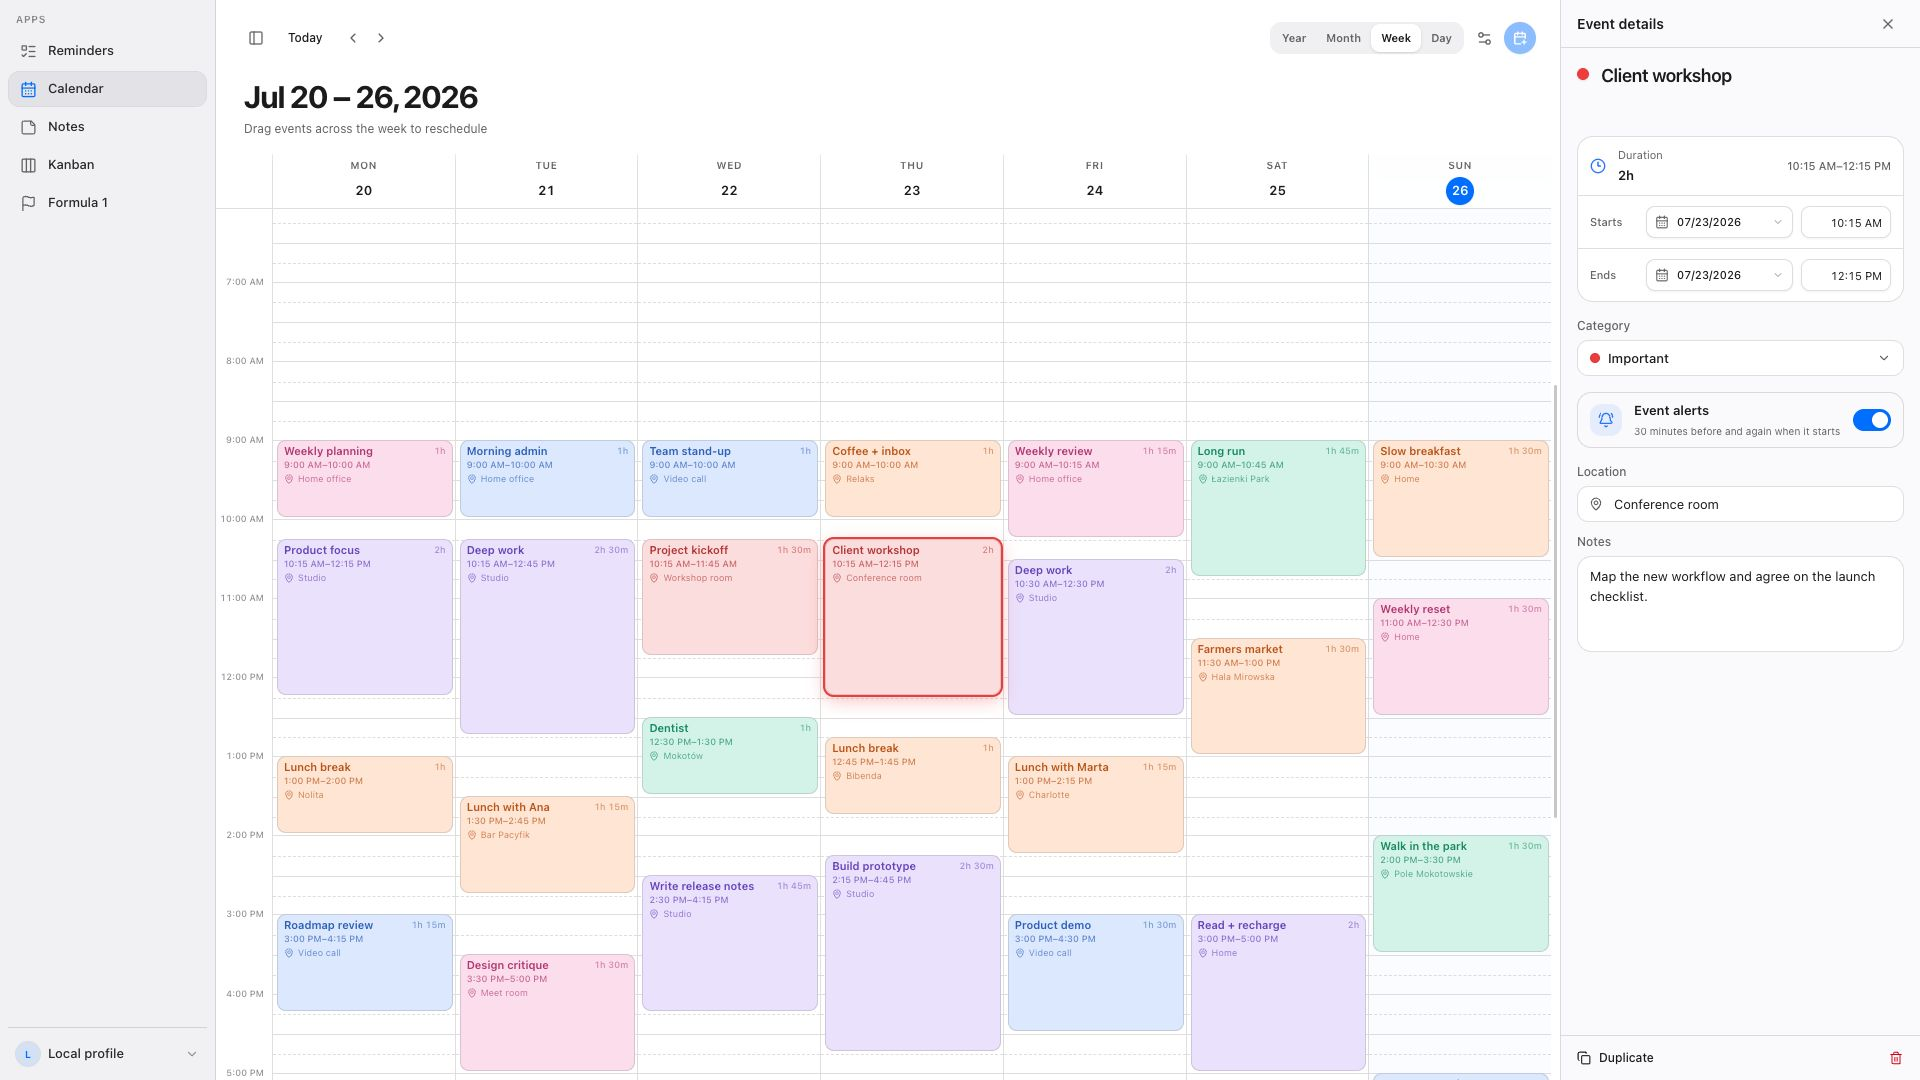
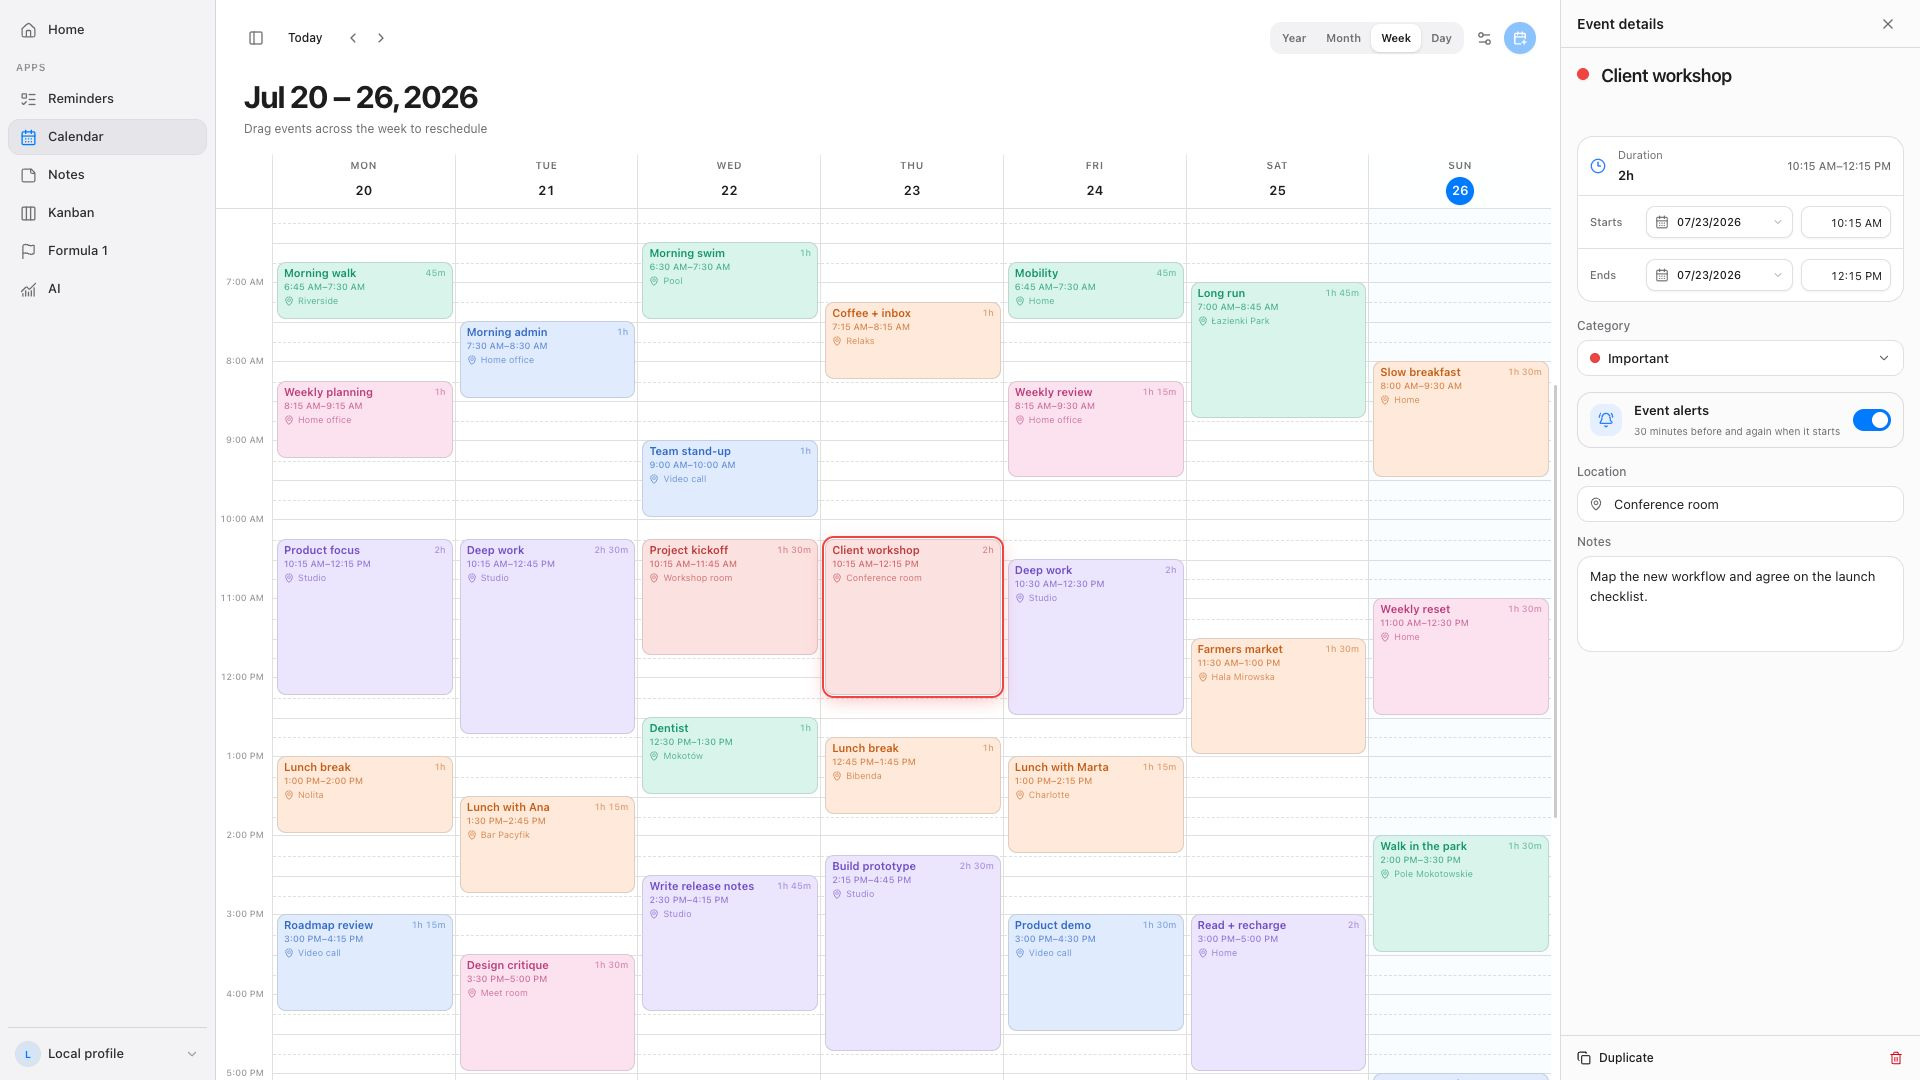
docs: add Windows guides and refresh screenshots

Changed region(s): [[0.125, 0.2139, 0.8125, 0.55], [0.0, 0.0, 0.0625, 0.2444], [0.4375, 0.6417, 0.5, 0.6722]]

diff --git a/README.md b/README.md
@@ -6,13 +6,15 @@
 
 <p align="center">
   A calm home for the everyday parts of life.<br>
-  Reminders, calendar, notes, projects, and Formula 1—together on the web and macOS.
+  Reminders, calendar, notes, projects, Formula 1, and AI usage—together on macOS, Windows, and the web.
 </p>
 
 <p align="center">
   <a href="https://www.lifever.app">Website</a>
   ·
   <a href="https://github.com/badosz0/lifever/releases/latest">Download for macOS</a>
+  ·
+  <a href="https://github.com/badosz0/lifever/releases/latest/download/Lifever-Windows-x64-setup.exe">Download for Windows</a>
   ·
   <a href="#homebrew">Install with Homebrew</a>
   ·
@@ -21,13 +23,20 @@
 
 ![Lifever week calendar](docs/screenshots/calendar-week.jpg)
 
-## One place, five focused apps
+## One place, six focused apps
 
 - **Reminders** — natural scheduling, categories, notes, priority, sounds, and Undo.
 - **Calendar** — day, week, month, and year views with drag creation, resizing, colors, and alerts.
 - **Notes** — multiple categories, fast search, pinning, and polished Markdown rendering.
 - **Kanban** — multiple projects, custom properties, labels, limits, search, and fluid drag and drop.
 - **Formula 1** — race weekends, championship data, local session times, and live countdowns.
+- **AI** — Codex limits, token history, model breakdowns, and daily usage at a glance.
+
+AI and Formula 1 are opt-in. Every other app is ready on first launch.
+
+| Home | AI usage |
+| --- | --- |
+| ![Lifever Home overview](docs/screenshots/home-overview.jpg) | ![Lifever AI usage dashboard](docs/screenshots/ai-usage.jpg) |
 
 | Reminders | Kanban |
 | --- | --- |
@@ -37,11 +46,12 @@
 | --- | --- |
 | ![Demo Markdown notes](docs/screenshots/notes-markdown.jpg) | ![Demo Formula 1 weekend](docs/screenshots/formula-1.jpg) |
 
-Lifever starts with a local demo profile, so the interface is useful before any
-account or server exists. Discord sign-in enables authenticated sync across
-devices.
+Lifever starts with a local demo profile. Discord sign-in enables authenticated
+sync across devices.
 
-## Homebrew
+## Install
+
+### macOS with Homebrew
 
 ```bash
 brew tap badosz0/lifever https://github.com/badosz0/lifever
@@ -55,6 +65,12 @@ Update later with:
 brew update
 brew upgrade lifever
 ```
+
+### Windows
+
+Download the latest
+[Windows 10/11 x64 installer](https://github.com/badosz0/lifever/releases/latest/download/Lifever-Windows-x64-setup.exe).
+The matching SHA-256 checksum is attached to every release.
 
 ## Run the demo
 
@@ -71,8 +87,8 @@ seeded with demo reminders, events, notes, and projects.
 
 ## Built with
 
-React 19 · TypeScript · Vite · Tailwind CSS · Tauri 2 · Hono · Better Auth ·
-Prisma · PostgreSQL · Cloudflare Workers and D1
+React 19 · TypeScript · Vite · Tailwind CSS · Tauri 2 · Rust · Hono · Better
+Auth · Prisma · PostgreSQL · Cloudflare Workers and D1
 
 ## Documentation
 

diff --git a/BUILDING.md b/BUILDING.md
@@ -1,6 +1,6 @@
 # Building Lifever
 
-This guide covers local development, production builds, the macOS app, and
+This guide covers local development, production builds, desktop apps, and
 releases. For deployment configuration, see [SELF_HOSTING.md](SELF_HOSTING.md).
 
 ## Requirements
@@ -8,7 +8,10 @@ releases. For deployment configuration, see [SELF_HOSTING.md](SELF_HOSTING.md).
 - Node `22.14.0` from [.nvmrc](.nvmrc)
 - pnpm `11.17.0` through Corepack
 - Docker or a PostgreSQL 17-compatible server for authenticated development
-- Rust `1.88.0` and Xcode Command Line Tools for the macOS app
+- Rust `1.88.0`
+- macOS: Xcode Command Line Tools
+- Windows: Windows 10/11, WebView2, and Microsoft C++ Build Tools with the
+  **Desktop development with C++** workload
 
 ## Install
 
@@ -66,7 +69,7 @@ Use a production-quality Better Auth secret:
 openssl rand -base64 32
 ```
 
-## macOS development
+## Desktop development
 
 Save the public API origin used by desktop builds:
 
@@ -82,6 +85,8 @@ pnpm desktop:dev
 ```
 
 Use `pnpm dev:worker` instead when developing against the Cloudflare runtime.
+
+### macOS
 
 Build and install the native app:
 
@@ -103,6 +108,24 @@ pnpm desktop:build
 
 Desktop commands accept `--api-url https://api.example.com`. Install commands
 also accept `--install-dir ~/Applications`.
+
+### Windows
+
+Run the app in development:
+
+```powershell
+pnpm desktop:dev
+```
+
+Build the same per-user NSIS installer published on GitHub:
+
+```powershell
+$env:VITE_API_URL="https://YOUR_API_ORIGIN"
+pnpm --filter @lifever/desktop tauri build --bundles nsis --ci
+```
+
+The setup executable is written under
+`apps/desktop/src-tauri/target/release/bundle/nsis`.
 
 ## Validation
 
@@ -173,7 +196,10 @@ pnpm release
 
 The release command checks the workspace, builds and verifies an Intel and
 Apple-silicon DMG, applies D1 migrations, deploys the Worker, tags the source,
-publishes the GitHub Release, and updates `Casks/lifever.rb`.
+and publishes the GitHub Release. Publishing triggers the
+[`Windows release`](.github/workflows/windows-release.yml) workflow, which
+builds the Windows x64 NSIS installer from the same tag. The release command
+waits for that installer before updating `Casks/lifever.rb`.
 
 Public releases require `APPLE_SIGNING_IDENTITY` plus one notarization method:
 
@@ -182,3 +208,6 @@ Public releases require `APPLE_SIGNING_IDENTITY` plus one notarization method:
 
 `--allow-ad-hoc` exists for intentional unnotarized builds. It should not be the
 normal public release path.
+
+Windows releases are currently unsigned. Each installer is built on GitHub
+Actions and published with a SHA-256 checksum beside it.

diff --git a/CONTRIBUTING.md b/CONTRIBUTING.md
@@ -16,6 +16,8 @@ apps/
   web/       Shared React product UI
   api/       Hono API, auth, services, and database adapters
   desktop/   Thin Tauri host for the web build
+  site/      Public Next.js landing page
+.github/     Cross-platform release automation
 prisma/      PostgreSQL and D1 schemas and migrations
 scripts/     Desktop, versioning, deployment, and release tooling
 ```
@@ -56,6 +58,7 @@ A useful pull request includes:
 
 - a concise description of the user-facing outcome;
 - screenshots or a short recording for visual changes;
+- platform notes when desktop behavior differs between macOS and Windows;
 - migration and deployment notes when data changes;
 - the checks performed;
 - any known follow-up that is intentionally out of scope.
@@ -69,4 +72,3 @@ refactor(notes): share collection search controls
 ```
 
 Avoid unrelated formatting or broad cleanup in feature commits.
-

diff --git a/SELF_HOSTING.md b/SELF_HOSTING.md
@@ -138,6 +138,13 @@ pnpm desktop:configure -- --api-url https://YOUR_API_ORIGIN
 pnpm desktop:build
 ```
 
+On Windows, build the x64 NSIS setup executable directly:
+
+```powershell
+$env:VITE_API_URL="https://YOUR_API_ORIGIN"
+pnpm --filter @lifever/desktop tauri build --bundles nsis --ci
+```
+
 Backend secrets must remain on the server.
 
 ## Operations
@@ -147,4 +154,3 @@ Backend secrets must remain on the server.
 - Keep `BETTER_AUTH_SECRET` stable; rotating it invalidates existing sessions.
 - Restrict `WEB_URL` to the frontend origin you operate.
 - Monitor `/api/health` and Worker observability after deployments.
-
